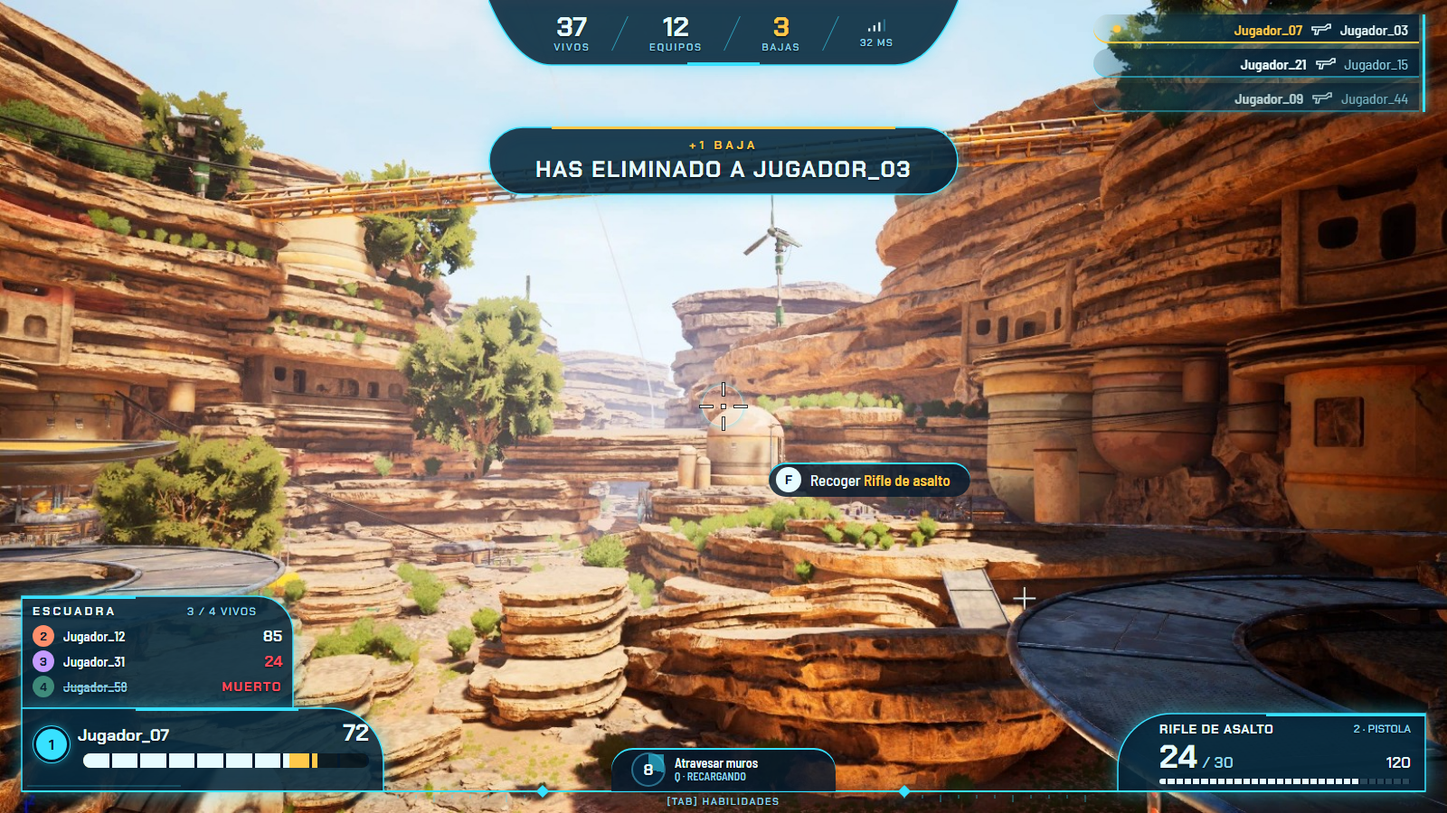
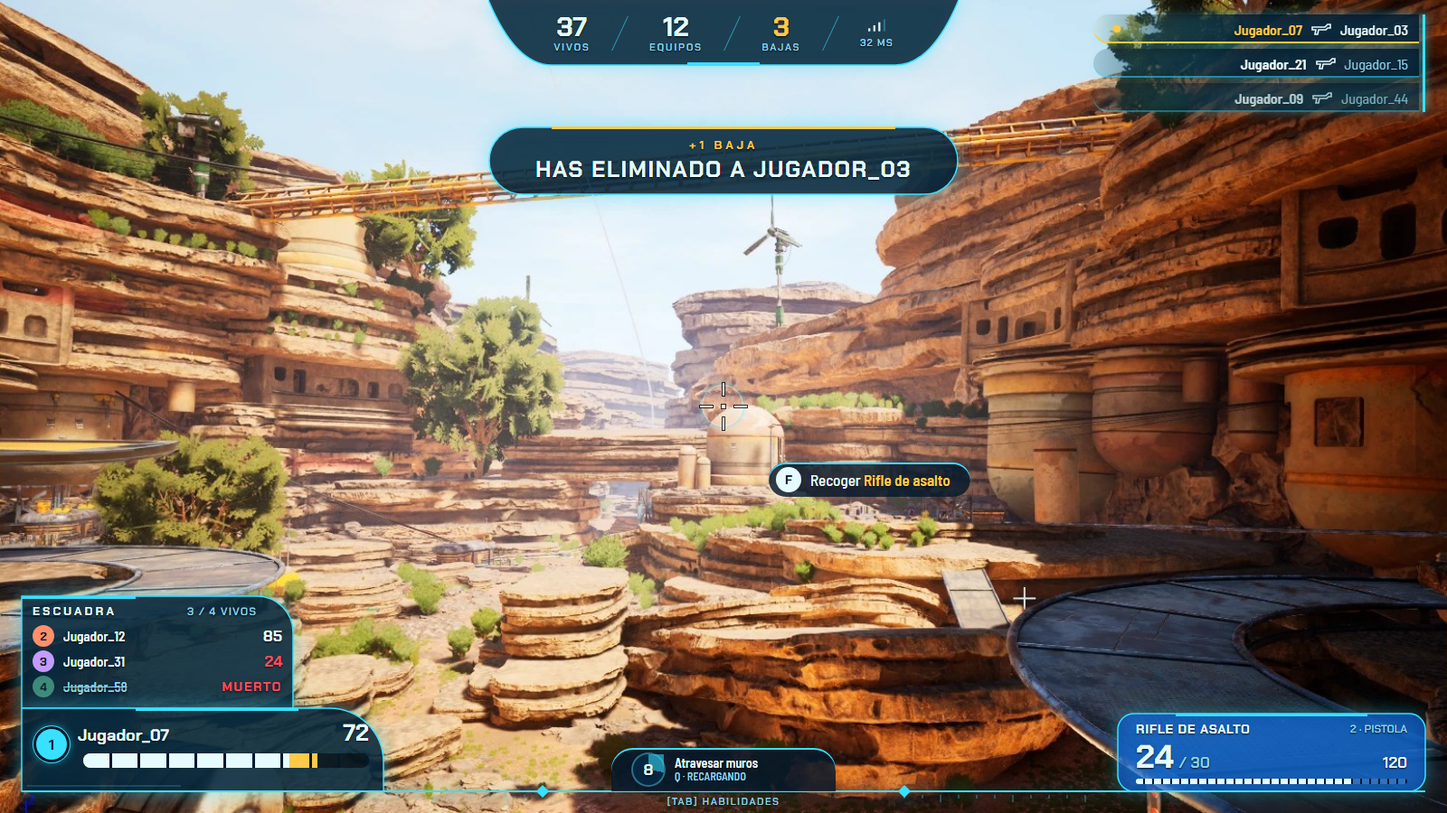
HUD mockup: weapon panel fully rounded with electric-blue fill

Changed region(s): [[0.75, 0.8711, 1.0, 0.9956]]

diff --git a/Doc/UI/Mockups/HUD_Escenario1.dc.html b/Doc/UI/Mockups/HUD_Escenario1.dc.html
@@ -83,7 +83,7 @@ a{color:#38E1FF}a:hover{color:#A6F3FF}
 <sc-if value="{{teamMode}}" hint-placeholder-val="{{ true }}">
 <svg width="1600" height="900" viewBox="0 0 1600 900" aria-hidden="true" style="position: absolute; left: 0; top: 0; filter: drop-shadow(0 0 10px {{glow}})"><path d="M24 660 H284 A40 40 0 0 1 324 700 V784 H24 Z" fill="{{panelFill}}" stroke="{{accent}}" stroke-width="1.5"></path><path d="M24 661.5 H150" stroke="{{accent}}" stroke-width="3"></path></svg>
 </sc-if>
-<svg width="1600" height="900" viewBox="0 0 1600 900" aria-hidden="true" style="position: absolute; left: 0; top: 0; filter: drop-shadow(0 0 10px {{glow}})"><path d="M24 784 H364 A60 60 0 0 1 424 844 V876 H24 Z" fill="{{panelFill}}" stroke="{{accent}}" stroke-width="1.5"></path><path d="M150 785.5 H330" stroke="{{accent}}" stroke-width="3"></path><path d="M30 870 H200" stroke="{{accent}}" stroke-width="1" opacity="0.4"></path><path d="M440 880 V884" stroke="{{accent}}" stroke-width="1" opacity="0.6"></path><path d="M460 880 V884" stroke="{{accent}}" stroke-width="1" opacity="0.6"></path><path d="M480 880 V888" stroke="{{accent}}" stroke-width="1" opacity="0.6"></path><path d="M500 880 V884" stroke="{{accent}}" stroke-width="1" opacity="0.6"></path><path d="M520 880 V884" stroke="{{accent}}" stroke-width="1" opacity="0.6"></path><path d="M540 880 V884" stroke="{{accent}}" stroke-width="1" opacity="0.6"></path><path d="M560 880 V888" stroke="{{accent}}" stroke-width="1" opacity="0.6"></path><path d="M580 880 V884" stroke="{{accent}}" stroke-width="1" opacity="0.6"></path><path d="M1000 880 V884" stroke="{{accent}}" stroke-width="1" opacity="0.6"></path><path d="M1020 880 V884" stroke="{{accent}}" stroke-width="1" opacity="0.6"></path><path d="M1040 880 V888" stroke="{{accent}}" stroke-width="1" opacity="0.6"></path><path d="M1060 880 V884" stroke="{{accent}}" stroke-width="1" opacity="0.6"></path><path d="M1080 880 V884" stroke="{{accent}}" stroke-width="1" opacity="0.6"></path><path d="M1100 880 V884" stroke="{{accent}}" stroke-width="1" opacity="0.6"></path><path d="M1120 880 V888" stroke="{{accent}}" stroke-width="1" opacity="0.6"></path><path d="M1140 880 V884" stroke="{{accent}}" stroke-width="1" opacity="0.6"></path><path d="M1160 880 V884" stroke="{{accent}}" stroke-width="1" opacity="0.6"></path><path d="M1180 880 V884" stroke="{{accent}}" stroke-width="1" opacity="0.6"></path><path d="M1200 880 V888" stroke="{{accent}}" stroke-width="1" opacity="0.6"></path><path d="M1236 876 V850 A60 60 0 0 1 1296 790 H1576 V876 Z" fill="{{panelFill}}" stroke="{{accent}}" stroke-width="1.5"></path><path d="M1400 791.5 H1576" stroke="{{accent}}" stroke-width="3"></path><path d="M24 876 H1576" stroke="{{accent}}" stroke-width="2"></path><rect x="595" y="871" width="10" height="10" fill="{{accent}}" transform="rotate(45 600 876)"></rect><rect x="995" y="871" width="10" height="10" fill="{{accent}}" transform="rotate(45 1000 876)"></rect></svg>
+<svg width="1600" height="900" viewBox="0 0 1600 900" aria-hidden="true" style="position: absolute; left: 0; top: 0; filter: drop-shadow(0 0 10px {{glow}})"><path d="M24 784 H364 A60 60 0 0 1 424 844 V876 H24 Z" fill="{{panelFill}}" stroke="{{accent}}" stroke-width="1.5"></path><path d="M150 785.5 H330" stroke="{{accent}}" stroke-width="3"></path><path d="M30 870 H200" stroke="{{accent}}" stroke-width="1" opacity="0.4"></path><path d="M440 880 V884" stroke="{{accent}}" stroke-width="1" opacity="0.6"></path><path d="M460 880 V884" stroke="{{accent}}" stroke-width="1" opacity="0.6"></path><path d="M480 880 V888" stroke="{{accent}}" stroke-width="1" opacity="0.6"></path><path d="M500 880 V884" stroke="{{accent}}" stroke-width="1" opacity="0.6"></path><path d="M520 880 V884" stroke="{{accent}}" stroke-width="1" opacity="0.6"></path><path d="M540 880 V884" stroke="{{accent}}" stroke-width="1" opacity="0.6"></path><path d="M560 880 V888" stroke="{{accent}}" stroke-width="1" opacity="0.6"></path><path d="M580 880 V884" stroke="{{accent}}" stroke-width="1" opacity="0.6"></path><path d="M1000 880 V884" stroke="{{accent}}" stroke-width="1" opacity="0.6"></path><path d="M1020 880 V884" stroke="{{accent}}" stroke-width="1" opacity="0.6"></path><path d="M1040 880 V888" stroke="{{accent}}" stroke-width="1" opacity="0.6"></path><path d="M1060 880 V884" stroke="{{accent}}" stroke-width="1" opacity="0.6"></path><path d="M1080 880 V884" stroke="{{accent}}" stroke-width="1" opacity="0.6"></path><path d="M1100 880 V884" stroke="{{accent}}" stroke-width="1" opacity="0.6"></path><path d="M1120 880 V888" stroke="{{accent}}" stroke-width="1" opacity="0.6"></path><path d="M1140 880 V884" stroke="{{accent}}" stroke-width="1" opacity="0.6"></path><path d="M1160 880 V884" stroke="{{accent}}" stroke-width="1" opacity="0.6"></path><path d="M1180 880 V884" stroke="{{accent}}" stroke-width="1" opacity="0.6"></path><path d="M1200 880 V888" stroke="{{accent}}" stroke-width="1" opacity="0.6"></path><path d="M1254 790 H1558 A18 18 0 0 1 1576 808 V858 A18 18 0 0 1 1558 876 H1254 A18 18 0 0 1 1236 858 V808 A18 18 0 0 1 1254 790 Z" fill="{{weaponFill}}" stroke="{{accent}}" stroke-width="1.5"></path><path d="M1300 791.5 H1512" stroke="{{accent}}" stroke-width="3"></path><path d="M24 876 H1576" stroke="{{accent}}" stroke-width="2"></path><rect x="595" y="871" width="10" height="10" fill="{{accent}}" transform="rotate(45 600 876)"></rect><rect x="995" y="871" width="10" height="10" fill="{{accent}}" transform="rotate(45 1000 876)"></rect></svg>
 
 <sc-if value="{{teamMode}}" hint-placeholder-val="{{ true }}">
 <div style="position: absolute; left: 36px; top: 668px; width: 276px; display: flex; flex-direction: column; gap: 6px">
@@ -176,7 +176,7 @@ a{color:#38E1FF}a:hover{color:#A6F3FF}
 <div style="position: absolute; left: 0; top: 880px; width: 1600px; text-align: center; font-family: 'Chakra Petch', sans-serif; font-size: 11px; font-weight: 600; letter-spacing: 0.14em; color: #8FD3E8">[TAB] OCULTAR</div>
 </sc-if>
 
-<div style="position: absolute; left: 1282px; top: 798px; width: 278px; display: flex; flex-direction: column; gap: 4px">
+<div style="position: absolute; left: 1256px; top: 798px; width: 300px; display: flex; flex-direction: column; gap: 4px">
 <div style="display: flex; justify-content: space-between; align-items: center; font-family: 'Chakra Petch', sans-serif">
 <span style="font-size: 14px; font-weight: 700; letter-spacing: 0.06em">RIFLE DE ASALTO</span>
 <span style="font-size: 12px; font-weight: 600; color: #8FD3E8">2 · PISTOLA</span>
@@ -215,6 +215,7 @@ class Component extends DCLogic {
       glow: accent + '99',
       edge: accent + '88',
       panelFill: 'rgba(4,24,44,' + panelAlpha + ')',
+      weaponFill: 'rgba(12,90,220,' + Math.min(1, panelAlpha * 0.75) + ')',
       teamMode,
       soloMode: !teamMode,
       skillsPanel,

diff --git a/Doc/UI/Mockups/HUD_Escenario2.dc.html b/Doc/UI/Mockups/HUD_Escenario2.dc.html
@@ -83,7 +83,7 @@ a{color:#38E1FF}a:hover{color:#A6F3FF}
 <sc-if value="{{teamMode}}" hint-placeholder-val="{{ true }}">
 <svg width="1600" height="900" viewBox="0 0 1600 900" aria-hidden="true" style="position: absolute; left: 0; top: 0; filter: drop-shadow(0 0 10px {{glow}})"><path d="M24 660 H284 A40 40 0 0 1 324 700 V784 H24 Z" fill="{{panelFill}}" stroke="{{accent}}" stroke-width="1.5"></path><path d="M24 661.5 H150" stroke="{{accent}}" stroke-width="3"></path></svg>
 </sc-if>
-<svg width="1600" height="900" viewBox="0 0 1600 900" aria-hidden="true" style="position: absolute; left: 0; top: 0; filter: drop-shadow(0 0 10px {{glow}})"><path d="M24 784 H364 A60 60 0 0 1 424 844 V876 H24 Z" fill="{{panelFill}}" stroke="{{accent}}" stroke-width="1.5"></path><path d="M150 785.5 H330" stroke="{{accent}}" stroke-width="3"></path><path d="M30 870 H200" stroke="{{accent}}" stroke-width="1" opacity="0.4"></path><path d="M440 880 V884" stroke="{{accent}}" stroke-width="1" opacity="0.6"></path><path d="M460 880 V884" stroke="{{accent}}" stroke-width="1" opacity="0.6"></path><path d="M480 880 V888" stroke="{{accent}}" stroke-width="1" opacity="0.6"></path><path d="M500 880 V884" stroke="{{accent}}" stroke-width="1" opacity="0.6"></path><path d="M520 880 V884" stroke="{{accent}}" stroke-width="1" opacity="0.6"></path><path d="M540 880 V884" stroke="{{accent}}" stroke-width="1" opacity="0.6"></path><path d="M560 880 V888" stroke="{{accent}}" stroke-width="1" opacity="0.6"></path><path d="M580 880 V884" stroke="{{accent}}" stroke-width="1" opacity="0.6"></path><path d="M1000 880 V884" stroke="{{accent}}" stroke-width="1" opacity="0.6"></path><path d="M1020 880 V884" stroke="{{accent}}" stroke-width="1" opacity="0.6"></path><path d="M1040 880 V888" stroke="{{accent}}" stroke-width="1" opacity="0.6"></path><path d="M1060 880 V884" stroke="{{accent}}" stroke-width="1" opacity="0.6"></path><path d="M1080 880 V884" stroke="{{accent}}" stroke-width="1" opacity="0.6"></path><path d="M1100 880 V884" stroke="{{accent}}" stroke-width="1" opacity="0.6"></path><path d="M1120 880 V888" stroke="{{accent}}" stroke-width="1" opacity="0.6"></path><path d="M1140 880 V884" stroke="{{accent}}" stroke-width="1" opacity="0.6"></path><path d="M1160 880 V884" stroke="{{accent}}" stroke-width="1" opacity="0.6"></path><path d="M1180 880 V884" stroke="{{accent}}" stroke-width="1" opacity="0.6"></path><path d="M1200 880 V888" stroke="{{accent}}" stroke-width="1" opacity="0.6"></path><path d="M1236 876 V850 A60 60 0 0 1 1296 790 H1576 V876 Z" fill="{{panelFill}}" stroke="{{accent}}" stroke-width="1.5"></path><path d="M1400 791.5 H1576" stroke="{{accent}}" stroke-width="3"></path><path d="M24 876 H1576" stroke="{{accent}}" stroke-width="2"></path><rect x="595" y="871" width="10" height="10" fill="{{accent}}" transform="rotate(45 600 876)"></rect><rect x="995" y="871" width="10" height="10" fill="{{accent}}" transform="rotate(45 1000 876)"></rect></svg>
+<svg width="1600" height="900" viewBox="0 0 1600 900" aria-hidden="true" style="position: absolute; left: 0; top: 0; filter: drop-shadow(0 0 10px {{glow}})"><path d="M24 784 H364 A60 60 0 0 1 424 844 V876 H24 Z" fill="{{panelFill}}" stroke="{{accent}}" stroke-width="1.5"></path><path d="M150 785.5 H330" stroke="{{accent}}" stroke-width="3"></path><path d="M30 870 H200" stroke="{{accent}}" stroke-width="1" opacity="0.4"></path><path d="M440 880 V884" stroke="{{accent}}" stroke-width="1" opacity="0.6"></path><path d="M460 880 V884" stroke="{{accent}}" stroke-width="1" opacity="0.6"></path><path d="M480 880 V888" stroke="{{accent}}" stroke-width="1" opacity="0.6"></path><path d="M500 880 V884" stroke="{{accent}}" stroke-width="1" opacity="0.6"></path><path d="M520 880 V884" stroke="{{accent}}" stroke-width="1" opacity="0.6"></path><path d="M540 880 V884" stroke="{{accent}}" stroke-width="1" opacity="0.6"></path><path d="M560 880 V888" stroke="{{accent}}" stroke-width="1" opacity="0.6"></path><path d="M580 880 V884" stroke="{{accent}}" stroke-width="1" opacity="0.6"></path><path d="M1000 880 V884" stroke="{{accent}}" stroke-width="1" opacity="0.6"></path><path d="M1020 880 V884" stroke="{{accent}}" stroke-width="1" opacity="0.6"></path><path d="M1040 880 V888" stroke="{{accent}}" stroke-width="1" opacity="0.6"></path><path d="M1060 880 V884" stroke="{{accent}}" stroke-width="1" opacity="0.6"></path><path d="M1080 880 V884" stroke="{{accent}}" stroke-width="1" opacity="0.6"></path><path d="M1100 880 V884" stroke="{{accent}}" stroke-width="1" opacity="0.6"></path><path d="M1120 880 V888" stroke="{{accent}}" stroke-width="1" opacity="0.6"></path><path d="M1140 880 V884" stroke="{{accent}}" stroke-width="1" opacity="0.6"></path><path d="M1160 880 V884" stroke="{{accent}}" stroke-width="1" opacity="0.6"></path><path d="M1180 880 V884" stroke="{{accent}}" stroke-width="1" opacity="0.6"></path><path d="M1200 880 V888" stroke="{{accent}}" stroke-width="1" opacity="0.6"></path><path d="M1254 790 H1558 A18 18 0 0 1 1576 808 V858 A18 18 0 0 1 1558 876 H1254 A18 18 0 0 1 1236 858 V808 A18 18 0 0 1 1254 790 Z" fill="{{weaponFill}}" stroke="{{accent}}" stroke-width="1.5"></path><path d="M1300 791.5 H1512" stroke="{{accent}}" stroke-width="3"></path><path d="M24 876 H1576" stroke="{{accent}}" stroke-width="2"></path><rect x="595" y="871" width="10" height="10" fill="{{accent}}" transform="rotate(45 600 876)"></rect><rect x="995" y="871" width="10" height="10" fill="{{accent}}" transform="rotate(45 1000 876)"></rect></svg>
 
 <sc-if value="{{teamMode}}" hint-placeholder-val="{{ true }}">
 <div style="position: absolute; left: 36px; top: 668px; width: 276px; display: flex; flex-direction: column; gap: 6px">
@@ -176,7 +176,7 @@ a{color:#38E1FF}a:hover{color:#A6F3FF}
 <div style="position: absolute; left: 0; top: 880px; width: 1600px; text-align: center; font-family: 'Chakra Petch', sans-serif; font-size: 11px; font-weight: 600; letter-spacing: 0.14em; color: #8FD3E8">[TAB] OCULTAR</div>
 </sc-if>
 
-<div style="position: absolute; left: 1282px; top: 798px; width: 278px; display: flex; flex-direction: column; gap: 4px">
+<div style="position: absolute; left: 1256px; top: 798px; width: 300px; display: flex; flex-direction: column; gap: 4px">
 <div style="display: flex; justify-content: space-between; align-items: center; font-family: 'Chakra Petch', sans-serif">
 <span style="font-size: 14px; font-weight: 700; letter-spacing: 0.06em">RIFLE DE ASALTO</span>
 <span style="font-size: 12px; font-weight: 600; color: #8FD3E8">2 · PISTOLA</span>
@@ -215,6 +215,7 @@ class Component extends DCLogic {
       glow: accent + '99',
       edge: accent + '88',
       panelFill: 'rgba(4,24,44,' + panelAlpha + ')',
+      weaponFill: 'rgba(12,90,220,' + Math.min(1, panelAlpha * 0.75) + ')',
       teamMode,
       soloMode: !teamMode,
       skillsPanel,

diff --git a/Doc/UI/Mockups/HUD_Escenario3.dc.html b/Doc/UI/Mockups/HUD_Escenario3.dc.html
@@ -83,7 +83,7 @@ a{color:#38E1FF}a:hover{color:#A6F3FF}
 <sc-if value="{{teamMode}}" hint-placeholder-val="{{ true }}">
 <svg width="1600" height="900" viewBox="0 0 1600 900" aria-hidden="true" style="position: absolute; left: 0; top: 0; filter: drop-shadow(0 0 10px {{glow}})"><path d="M24 660 H284 A40 40 0 0 1 324 700 V784 H24 Z" fill="{{panelFill}}" stroke="{{accent}}" stroke-width="1.5"></path><path d="M24 661.5 H150" stroke="{{accent}}" stroke-width="3"></path></svg>
 </sc-if>
-<svg width="1600" height="900" viewBox="0 0 1600 900" aria-hidden="true" style="position: absolute; left: 0; top: 0; filter: drop-shadow(0 0 10px {{glow}})"><path d="M24 784 H364 A60 60 0 0 1 424 844 V876 H24 Z" fill="{{panelFill}}" stroke="{{accent}}" stroke-width="1.5"></path><path d="M150 785.5 H330" stroke="{{accent}}" stroke-width="3"></path><path d="M30 870 H200" stroke="{{accent}}" stroke-width="1" opacity="0.4"></path><path d="M440 880 V884" stroke="{{accent}}" stroke-width="1" opacity="0.6"></path><path d="M460 880 V884" stroke="{{accent}}" stroke-width="1" opacity="0.6"></path><path d="M480 880 V888" stroke="{{accent}}" stroke-width="1" opacity="0.6"></path><path d="M500 880 V884" stroke="{{accent}}" stroke-width="1" opacity="0.6"></path><path d="M520 880 V884" stroke="{{accent}}" stroke-width="1" opacity="0.6"></path><path d="M540 880 V884" stroke="{{accent}}" stroke-width="1" opacity="0.6"></path><path d="M560 880 V888" stroke="{{accent}}" stroke-width="1" opacity="0.6"></path><path d="M580 880 V884" stroke="{{accent}}" stroke-width="1" opacity="0.6"></path><path d="M1000 880 V884" stroke="{{accent}}" stroke-width="1" opacity="0.6"></path><path d="M1020 880 V884" stroke="{{accent}}" stroke-width="1" opacity="0.6"></path><path d="M1040 880 V888" stroke="{{accent}}" stroke-width="1" opacity="0.6"></path><path d="M1060 880 V884" stroke="{{accent}}" stroke-width="1" opacity="0.6"></path><path d="M1080 880 V884" stroke="{{accent}}" stroke-width="1" opacity="0.6"></path><path d="M1100 880 V884" stroke="{{accent}}" stroke-width="1" opacity="0.6"></path><path d="M1120 880 V888" stroke="{{accent}}" stroke-width="1" opacity="0.6"></path><path d="M1140 880 V884" stroke="{{accent}}" stroke-width="1" opacity="0.6"></path><path d="M1160 880 V884" stroke="{{accent}}" stroke-width="1" opacity="0.6"></path><path d="M1180 880 V884" stroke="{{accent}}" stroke-width="1" opacity="0.6"></path><path d="M1200 880 V888" stroke="{{accent}}" stroke-width="1" opacity="0.6"></path><path d="M1236 876 V850 A60 60 0 0 1 1296 790 H1576 V876 Z" fill="{{panelFill}}" stroke="{{accent}}" stroke-width="1.5"></path><path d="M1400 791.5 H1576" stroke="{{accent}}" stroke-width="3"></path><path d="M24 876 H1576" stroke="{{accent}}" stroke-width="2"></path><rect x="595" y="871" width="10" height="10" fill="{{accent}}" transform="rotate(45 600 876)"></rect><rect x="995" y="871" width="10" height="10" fill="{{accent}}" transform="rotate(45 1000 876)"></rect></svg>
+<svg width="1600" height="900" viewBox="0 0 1600 900" aria-hidden="true" style="position: absolute; left: 0; top: 0; filter: drop-shadow(0 0 10px {{glow}})"><path d="M24 784 H364 A60 60 0 0 1 424 844 V876 H24 Z" fill="{{panelFill}}" stroke="{{accent}}" stroke-width="1.5"></path><path d="M150 785.5 H330" stroke="{{accent}}" stroke-width="3"></path><path d="M30 870 H200" stroke="{{accent}}" stroke-width="1" opacity="0.4"></path><path d="M440 880 V884" stroke="{{accent}}" stroke-width="1" opacity="0.6"></path><path d="M460 880 V884" stroke="{{accent}}" stroke-width="1" opacity="0.6"></path><path d="M480 880 V888" stroke="{{accent}}" stroke-width="1" opacity="0.6"></path><path d="M500 880 V884" stroke="{{accent}}" stroke-width="1" opacity="0.6"></path><path d="M520 880 V884" stroke="{{accent}}" stroke-width="1" opacity="0.6"></path><path d="M540 880 V884" stroke="{{accent}}" stroke-width="1" opacity="0.6"></path><path d="M560 880 V888" stroke="{{accent}}" stroke-width="1" opacity="0.6"></path><path d="M580 880 V884" stroke="{{accent}}" stroke-width="1" opacity="0.6"></path><path d="M1000 880 V884" stroke="{{accent}}" stroke-width="1" opacity="0.6"></path><path d="M1020 880 V884" stroke="{{accent}}" stroke-width="1" opacity="0.6"></path><path d="M1040 880 V888" stroke="{{accent}}" stroke-width="1" opacity="0.6"></path><path d="M1060 880 V884" stroke="{{accent}}" stroke-width="1" opacity="0.6"></path><path d="M1080 880 V884" stroke="{{accent}}" stroke-width="1" opacity="0.6"></path><path d="M1100 880 V884" stroke="{{accent}}" stroke-width="1" opacity="0.6"></path><path d="M1120 880 V888" stroke="{{accent}}" stroke-width="1" opacity="0.6"></path><path d="M1140 880 V884" stroke="{{accent}}" stroke-width="1" opacity="0.6"></path><path d="M1160 880 V884" stroke="{{accent}}" stroke-width="1" opacity="0.6"></path><path d="M1180 880 V884" stroke="{{accent}}" stroke-width="1" opacity="0.6"></path><path d="M1200 880 V888" stroke="{{accent}}" stroke-width="1" opacity="0.6"></path><path d="M1254 790 H1558 A18 18 0 0 1 1576 808 V858 A18 18 0 0 1 1558 876 H1254 A18 18 0 0 1 1236 858 V808 A18 18 0 0 1 1254 790 Z" fill="{{weaponFill}}" stroke="{{accent}}" stroke-width="1.5"></path><path d="M1300 791.5 H1512" stroke="{{accent}}" stroke-width="3"></path><path d="M24 876 H1576" stroke="{{accent}}" stroke-width="2"></path><rect x="595" y="871" width="10" height="10" fill="{{accent}}" transform="rotate(45 600 876)"></rect><rect x="995" y="871" width="10" height="10" fill="{{accent}}" transform="rotate(45 1000 876)"></rect></svg>
 
 <sc-if value="{{teamMode}}" hint-placeholder-val="{{ true }}">
 <div style="position: absolute; left: 36px; top: 668px; width: 276px; display: flex; flex-direction: column; gap: 6px">
@@ -176,7 +176,7 @@ a{color:#38E1FF}a:hover{color:#A6F3FF}
 <div style="position: absolute; left: 0; top: 880px; width: 1600px; text-align: center; font-family: 'Chakra Petch', sans-serif; font-size: 11px; font-weight: 600; letter-spacing: 0.14em; color: #8FD3E8">[TAB] OCULTAR</div>
 </sc-if>
 
-<div style="position: absolute; left: 1282px; top: 798px; width: 278px; display: flex; flex-direction: column; gap: 4px">
+<div style="position: absolute; left: 1256px; top: 798px; width: 300px; display: flex; flex-direction: column; gap: 4px">
 <div style="display: flex; justify-content: space-between; align-items: center; font-family: 'Chakra Petch', sans-serif">
 <span style="font-size: 14px; font-weight: 700; letter-spacing: 0.06em">RIFLE DE ASALTO</span>
 <span style="font-size: 12px; font-weight: 600; color: #8FD3E8">2 · PISTOLA</span>
@@ -215,6 +215,7 @@ class Component extends DCLogic {
       glow: accent + '99',
       edge: accent + '88',
       panelFill: 'rgba(4,24,44,' + panelAlpha + ')',
+      weaponFill: 'rgba(12,90,220,' + Math.min(1, panelAlpha * 0.75) + ')',
       teamMode,
       soloMode: !teamMode,
       skillsPanel,

diff --git a/Doc/UI/Mockups/HUD_Escenario4.dc.html b/Doc/UI/Mockups/HUD_Escenario4.dc.html
@@ -83,7 +83,7 @@ a{color:#38E1FF}a:hover{color:#A6F3FF}
 <sc-if value="{{teamMode}}" hint-placeholder-val="{{ true }}">
 <svg width="1600" height="900" viewBox="0 0 1600 900" aria-hidden="true" style="position: absolute; left: 0; top: 0; filter: drop-shadow(0 0 10px {{glow}})"><path d="M24 660 H284 A40 40 0 0 1 324 700 V784 H24 Z" fill="{{panelFill}}" stroke="{{accent}}" stroke-width="1.5"></path><path d="M24 661.5 H150" stroke="{{accent}}" stroke-width="3"></path></svg>
 </sc-if>
-<svg width="1600" height="900" viewBox="0 0 1600 900" aria-hidden="true" style="position: absolute; left: 0; top: 0; filter: drop-shadow(0 0 10px {{glow}})"><path d="M24 784 H364 A60 60 0 0 1 424 844 V876 H24 Z" fill="{{panelFill}}" stroke="{{accent}}" stroke-width="1.5"></path><path d="M150 785.5 H330" stroke="{{accent}}" stroke-width="3"></path><path d="M30 870 H200" stroke="{{accent}}" stroke-width="1" opacity="0.4"></path><path d="M440 880 V884" stroke="{{accent}}" stroke-width="1" opacity="0.6"></path><path d="M460 880 V884" stroke="{{accent}}" stroke-width="1" opacity="0.6"></path><path d="M480 880 V888" stroke="{{accent}}" stroke-width="1" opacity="0.6"></path><path d="M500 880 V884" stroke="{{accent}}" stroke-width="1" opacity="0.6"></path><path d="M520 880 V884" stroke="{{accent}}" stroke-width="1" opacity="0.6"></path><path d="M540 880 V884" stroke="{{accent}}" stroke-width="1" opacity="0.6"></path><path d="M560 880 V888" stroke="{{accent}}" stroke-width="1" opacity="0.6"></path><path d="M580 880 V884" stroke="{{accent}}" stroke-width="1" opacity="0.6"></path><path d="M1000 880 V884" stroke="{{accent}}" stroke-width="1" opacity="0.6"></path><path d="M1020 880 V884" stroke="{{accent}}" stroke-width="1" opacity="0.6"></path><path d="M1040 880 V888" stroke="{{accent}}" stroke-width="1" opacity="0.6"></path><path d="M1060 880 V884" stroke="{{accent}}" stroke-width="1" opacity="0.6"></path><path d="M1080 880 V884" stroke="{{accent}}" stroke-width="1" opacity="0.6"></path><path d="M1100 880 V884" stroke="{{accent}}" stroke-width="1" opacity="0.6"></path><path d="M1120 880 V888" stroke="{{accent}}" stroke-width="1" opacity="0.6"></path><path d="M1140 880 V884" stroke="{{accent}}" stroke-width="1" opacity="0.6"></path><path d="M1160 880 V884" stroke="{{accent}}" stroke-width="1" opacity="0.6"></path><path d="M1180 880 V884" stroke="{{accent}}" stroke-width="1" opacity="0.6"></path><path d="M1200 880 V888" stroke="{{accent}}" stroke-width="1" opacity="0.6"></path><path d="M1236 876 V850 A60 60 0 0 1 1296 790 H1576 V876 Z" fill="{{panelFill}}" stroke="{{accent}}" stroke-width="1.5"></path><path d="M1400 791.5 H1576" stroke="{{accent}}" stroke-width="3"></path><path d="M24 876 H1576" stroke="{{accent}}" stroke-width="2"></path><rect x="595" y="871" width="10" height="10" fill="{{accent}}" transform="rotate(45 600 876)"></rect><rect x="995" y="871" width="10" height="10" fill="{{accent}}" transform="rotate(45 1000 876)"></rect></svg>
+<svg width="1600" height="900" viewBox="0 0 1600 900" aria-hidden="true" style="position: absolute; left: 0; top: 0; filter: drop-shadow(0 0 10px {{glow}})"><path d="M24 784 H364 A60 60 0 0 1 424 844 V876 H24 Z" fill="{{panelFill}}" stroke="{{accent}}" stroke-width="1.5"></path><path d="M150 785.5 H330" stroke="{{accent}}" stroke-width="3"></path><path d="M30 870 H200" stroke="{{accent}}" stroke-width="1" opacity="0.4"></path><path d="M440 880 V884" stroke="{{accent}}" stroke-width="1" opacity="0.6"></path><path d="M460 880 V884" stroke="{{accent}}" stroke-width="1" opacity="0.6"></path><path d="M480 880 V888" stroke="{{accent}}" stroke-width="1" opacity="0.6"></path><path d="M500 880 V884" stroke="{{accent}}" stroke-width="1" opacity="0.6"></path><path d="M520 880 V884" stroke="{{accent}}" stroke-width="1" opacity="0.6"></path><path d="M540 880 V884" stroke="{{accent}}" stroke-width="1" opacity="0.6"></path><path d="M560 880 V888" stroke="{{accent}}" stroke-width="1" opacity="0.6"></path><path d="M580 880 V884" stroke="{{accent}}" stroke-width="1" opacity="0.6"></path><path d="M1000 880 V884" stroke="{{accent}}" stroke-width="1" opacity="0.6"></path><path d="M1020 880 V884" stroke="{{accent}}" stroke-width="1" opacity="0.6"></path><path d="M1040 880 V888" stroke="{{accent}}" stroke-width="1" opacity="0.6"></path><path d="M1060 880 V884" stroke="{{accent}}" stroke-width="1" opacity="0.6"></path><path d="M1080 880 V884" stroke="{{accent}}" stroke-width="1" opacity="0.6"></path><path d="M1100 880 V884" stroke="{{accent}}" stroke-width="1" opacity="0.6"></path><path d="M1120 880 V888" stroke="{{accent}}" stroke-width="1" opacity="0.6"></path><path d="M1140 880 V884" stroke="{{accent}}" stroke-width="1" opacity="0.6"></path><path d="M1160 880 V884" stroke="{{accent}}" stroke-width="1" opacity="0.6"></path><path d="M1180 880 V884" stroke="{{accent}}" stroke-width="1" opacity="0.6"></path><path d="M1200 880 V888" stroke="{{accent}}" stroke-width="1" opacity="0.6"></path><path d="M1254 790 H1558 A18 18 0 0 1 1576 808 V858 A18 18 0 0 1 1558 876 H1254 A18 18 0 0 1 1236 858 V808 A18 18 0 0 1 1254 790 Z" fill="{{weaponFill}}" stroke="{{accent}}" stroke-width="1.5"></path><path d="M1300 791.5 H1512" stroke="{{accent}}" stroke-width="3"></path><path d="M24 876 H1576" stroke="{{accent}}" stroke-width="2"></path><rect x="595" y="871" width="10" height="10" fill="{{accent}}" transform="rotate(45 600 876)"></rect><rect x="995" y="871" width="10" height="10" fill="{{accent}}" transform="rotate(45 1000 876)"></rect></svg>
 
 <sc-if value="{{teamMode}}" hint-placeholder-val="{{ true }}">
 <div style="position: absolute; left: 36px; top: 668px; width: 276px; display: flex; flex-direction: column; gap: 6px">
@@ -176,7 +176,7 @@ a{color:#38E1FF}a:hover{color:#A6F3FF}
 <div style="position: absolute; left: 0; top: 880px; width: 1600px; text-align: center; font-family: 'Chakra Petch', sans-serif; font-size: 11px; font-weight: 600; letter-spacing: 0.14em; color: #8FD3E8">[TAB] OCULTAR</div>
 </sc-if>
 
-<div style="position: absolute; left: 1282px; top: 798px; width: 278px; display: flex; flex-direction: column; gap: 4px">
+<div style="position: absolute; left: 1256px; top: 798px; width: 300px; display: flex; flex-direction: column; gap: 4px">
 <div style="display: flex; justify-content: space-between; align-items: center; font-family: 'Chakra Petch', sans-serif">
 <span style="font-size: 14px; font-weight: 700; letter-spacing: 0.06em">RIFLE DE ASALTO</span>
 <span style="font-size: 12px; font-weight: 600; color: #8FD3E8">2 · PISTOLA</span>
@@ -215,6 +215,7 @@ class Component extends DCLogic {
       glow: accent + '99',
       edge: accent + '88',
       panelFill: 'rgba(4,24,44,' + panelAlpha + ')',
+      weaponFill: 'rgba(12,90,220,' + Math.min(1, panelAlpha * 0.75) + ')',
       teamMode,
       soloMode: !teamMode,
       skillsPanel,

diff --git a/Doc/UI/Mockups/HUD_Escenario5.dc.html b/Doc/UI/Mockups/HUD_Escenario5.dc.html
@@ -83,7 +83,7 @@ a{color:#38E1FF}a:hover{color:#A6F3FF}
 <sc-if value="{{teamMode}}" hint-placeholder-val="{{ true }}">
 <svg width="1600" height="900" viewBox="0 0 1600 900" aria-hidden="true" style="position: absolute; left: 0; top: 0; filter: drop-shadow(0 0 10px {{glow}})"><path d="M24 660 H284 A40 40 0 0 1 324 700 V784 H24 Z" fill="{{panelFill}}" stroke="{{accent}}" stroke-width="1.5"></path><path d="M24 661.5 H150" stroke="{{accent}}" stroke-width="3"></path></svg>
 </sc-if>
-<svg width="1600" height="900" viewBox="0 0 1600 900" aria-hidden="true" style="position: absolute; left: 0; top: 0; filter: drop-shadow(0 0 10px {{glow}})"><path d="M24 784 H364 A60 60 0 0 1 424 844 V876 H24 Z" fill="{{panelFill}}" stroke="{{accent}}" stroke-width="1.5"></path><path d="M150 785.5 H330" stroke="{{accent}}" stroke-width="3"></path><path d="M30 870 H200" stroke="{{accent}}" stroke-width="1" opacity="0.4"></path><path d="M440 880 V884" stroke="{{accent}}" stroke-width="1" opacity="0.6"></path><path d="M460 880 V884" stroke="{{accent}}" stroke-width="1" opacity="0.6"></path><path d="M480 880 V888" stroke="{{accent}}" stroke-width="1" opacity="0.6"></path><path d="M500 880 V884" stroke="{{accent}}" stroke-width="1" opacity="0.6"></path><path d="M520 880 V884" stroke="{{accent}}" stroke-width="1" opacity="0.6"></path><path d="M540 880 V884" stroke="{{accent}}" stroke-width="1" opacity="0.6"></path><path d="M560 880 V888" stroke="{{accent}}" stroke-width="1" opacity="0.6"></path><path d="M580 880 V884" stroke="{{accent}}" stroke-width="1" opacity="0.6"></path><path d="M1000 880 V884" stroke="{{accent}}" stroke-width="1" opacity="0.6"></path><path d="M1020 880 V884" stroke="{{accent}}" stroke-width="1" opacity="0.6"></path><path d="M1040 880 V888" stroke="{{accent}}" stroke-width="1" opacity="0.6"></path><path d="M1060 880 V884" stroke="{{accent}}" stroke-width="1" opacity="0.6"></path><path d="M1080 880 V884" stroke="{{accent}}" stroke-width="1" opacity="0.6"></path><path d="M1100 880 V884" stroke="{{accent}}" stroke-width="1" opacity="0.6"></path><path d="M1120 880 V888" stroke="{{accent}}" stroke-width="1" opacity="0.6"></path><path d="M1140 880 V884" stroke="{{accent}}" stroke-width="1" opacity="0.6"></path><path d="M1160 880 V884" stroke="{{accent}}" stroke-width="1" opacity="0.6"></path><path d="M1180 880 V884" stroke="{{accent}}" stroke-width="1" opacity="0.6"></path><path d="M1200 880 V888" stroke="{{accent}}" stroke-width="1" opacity="0.6"></path><path d="M1236 876 V850 A60 60 0 0 1 1296 790 H1576 V876 Z" fill="{{panelFill}}" stroke="{{accent}}" stroke-width="1.5"></path><path d="M1400 791.5 H1576" stroke="{{accent}}" stroke-width="3"></path><path d="M24 876 H1576" stroke="{{accent}}" stroke-width="2"></path><rect x="595" y="871" width="10" height="10" fill="{{accent}}" transform="rotate(45 600 876)"></rect><rect x="995" y="871" width="10" height="10" fill="{{accent}}" transform="rotate(45 1000 876)"></rect></svg>
+<svg width="1600" height="900" viewBox="0 0 1600 900" aria-hidden="true" style="position: absolute; left: 0; top: 0; filter: drop-shadow(0 0 10px {{glow}})"><path d="M24 784 H364 A60 60 0 0 1 424 844 V876 H24 Z" fill="{{panelFill}}" stroke="{{accent}}" stroke-width="1.5"></path><path d="M150 785.5 H330" stroke="{{accent}}" stroke-width="3"></path><path d="M30 870 H200" stroke="{{accent}}" stroke-width="1" opacity="0.4"></path><path d="M440 880 V884" stroke="{{accent}}" stroke-width="1" opacity="0.6"></path><path d="M460 880 V884" stroke="{{accent}}" stroke-width="1" opacity="0.6"></path><path d="M480 880 V888" stroke="{{accent}}" stroke-width="1" opacity="0.6"></path><path d="M500 880 V884" stroke="{{accent}}" stroke-width="1" opacity="0.6"></path><path d="M520 880 V884" stroke="{{accent}}" stroke-width="1" opacity="0.6"></path><path d="M540 880 V884" stroke="{{accent}}" stroke-width="1" opacity="0.6"></path><path d="M560 880 V888" stroke="{{accent}}" stroke-width="1" opacity="0.6"></path><path d="M580 880 V884" stroke="{{accent}}" stroke-width="1" opacity="0.6"></path><path d="M1000 880 V884" stroke="{{accent}}" stroke-width="1" opacity="0.6"></path><path d="M1020 880 V884" stroke="{{accent}}" stroke-width="1" opacity="0.6"></path><path d="M1040 880 V888" stroke="{{accent}}" stroke-width="1" opacity="0.6"></path><path d="M1060 880 V884" stroke="{{accent}}" stroke-width="1" opacity="0.6"></path><path d="M1080 880 V884" stroke="{{accent}}" stroke-width="1" opacity="0.6"></path><path d="M1100 880 V884" stroke="{{accent}}" stroke-width="1" opacity="0.6"></path><path d="M1120 880 V888" stroke="{{accent}}" stroke-width="1" opacity="0.6"></path><path d="M1140 880 V884" stroke="{{accent}}" stroke-width="1" opacity="0.6"></path><path d="M1160 880 V884" stroke="{{accent}}" stroke-width="1" opacity="0.6"></path><path d="M1180 880 V884" stroke="{{accent}}" stroke-width="1" opacity="0.6"></path><path d="M1200 880 V888" stroke="{{accent}}" stroke-width="1" opacity="0.6"></path><path d="M1254 790 H1558 A18 18 0 0 1 1576 808 V858 A18 18 0 0 1 1558 876 H1254 A18 18 0 0 1 1236 858 V808 A18 18 0 0 1 1254 790 Z" fill="{{weaponFill}}" stroke="{{accent}}" stroke-width="1.5"></path><path d="M1300 791.5 H1512" stroke="{{accent}}" stroke-width="3"></path><path d="M24 876 H1576" stroke="{{accent}}" stroke-width="2"></path><rect x="595" y="871" width="10" height="10" fill="{{accent}}" transform="rotate(45 600 876)"></rect><rect x="995" y="871" width="10" height="10" fill="{{accent}}" transform="rotate(45 1000 876)"></rect></svg>
 
 <sc-if value="{{teamMode}}" hint-placeholder-val="{{ true }}">
 <div style="position: absolute; left: 36px; top: 668px; width: 276px; display: flex; flex-direction: column; gap: 6px">
@@ -176,7 +176,7 @@ a{color:#38E1FF}a:hover{color:#A6F3FF}
 <div style="position: absolute; left: 0; top: 880px; width: 1600px; text-align: center; font-family: 'Chakra Petch', sans-serif; font-size: 11px; font-weight: 600; letter-spacing: 0.14em; color: #8FD3E8">[TAB] OCULTAR</div>
 </sc-if>
 
-<div style="position: absolute; left: 1282px; top: 798px; width: 278px; display: flex; flex-direction: column; gap: 4px">
+<div style="position: absolute; left: 1256px; top: 798px; width: 300px; display: flex; flex-direction: column; gap: 4px">
 <div style="display: flex; justify-content: space-between; align-items: center; font-family: 'Chakra Petch', sans-serif">
 <span style="font-size: 14px; font-weight: 700; letter-spacing: 0.06em">RIFLE DE ASALTO</span>
 <span style="font-size: 12px; font-weight: 600; color: #8FD3E8">2 · PISTOLA</span>
@@ -215,6 +215,7 @@ class Component extends DCLogic {
       glow: accent + '99',
       edge: accent + '88',
       panelFill: 'rgba(4,24,44,' + panelAlpha + ')',
+      weaponFill: 'rgba(12,90,220,' + Math.min(1, panelAlpha * 0.75) + ')',
       teamMode,
       soloMode: !teamMode,
       skillsPanel,

diff --git a/Doc/UI/Mockups/Main.dc.html b/Doc/UI/Mockups/Main.dc.html
@@ -88,7 +88,7 @@ a{color:#38E1FF}a:hover{color:#A6F3FF}
 <sc-if value="{{teamMode}}" hint-placeholder-val="{{ true }}">
 <svg width="1600" height="900" viewBox="0 0 1600 900" aria-hidden="true" style="position: absolute; left: 0; top: 0; filter: drop-shadow(0 0 10px {{glow}})"><path d="M24 660 H284 A40 40 0 0 1 324 700 V784 H24 Z" fill="{{panelFill}}" stroke="{{accent}}" stroke-width="1.5"></path><path d="M24 661.5 H150" stroke="{{accent}}" stroke-width="3"></path></svg>
 </sc-if>
-<svg width="1600" height="900" viewBox="0 0 1600 900" aria-hidden="true" style="position: absolute; left: 0; top: 0; filter: drop-shadow(0 0 10px {{glow}})"><path d="M24 784 H364 A60 60 0 0 1 424 844 V876 H24 Z" fill="{{panelFill}}" stroke="{{accent}}" stroke-width="1.5"></path><path d="M150 785.5 H330" stroke="{{accent}}" stroke-width="3"></path><path d="M30 870 H200" stroke="{{accent}}" stroke-width="1" opacity="0.4"></path><path d="M440 880 V884" stroke="{{accent}}" stroke-width="1" opacity="0.6"></path><path d="M460 880 V884" stroke="{{accent}}" stroke-width="1" opacity="0.6"></path><path d="M480 880 V888" stroke="{{accent}}" stroke-width="1" opacity="0.6"></path><path d="M500 880 V884" stroke="{{accent}}" stroke-width="1" opacity="0.6"></path><path d="M520 880 V884" stroke="{{accent}}" stroke-width="1" opacity="0.6"></path><path d="M540 880 V884" stroke="{{accent}}" stroke-width="1" opacity="0.6"></path><path d="M560 880 V888" stroke="{{accent}}" stroke-width="1" opacity="0.6"></path><path d="M580 880 V884" stroke="{{accent}}" stroke-width="1" opacity="0.6"></path><path d="M1000 880 V884" stroke="{{accent}}" stroke-width="1" opacity="0.6"></path><path d="M1020 880 V884" stroke="{{accent}}" stroke-width="1" opacity="0.6"></path><path d="M1040 880 V888" stroke="{{accent}}" stroke-width="1" opacity="0.6"></path><path d="M1060 880 V884" stroke="{{accent}}" stroke-width="1" opacity="0.6"></path><path d="M1080 880 V884" stroke="{{accent}}" stroke-width="1" opacity="0.6"></path><path d="M1100 880 V884" stroke="{{accent}}" stroke-width="1" opacity="0.6"></path><path d="M1120 880 V888" stroke="{{accent}}" stroke-width="1" opacity="0.6"></path><path d="M1140 880 V884" stroke="{{accent}}" stroke-width="1" opacity="0.6"></path><path d="M1160 880 V884" stroke="{{accent}}" stroke-width="1" opacity="0.6"></path><path d="M1180 880 V884" stroke="{{accent}}" stroke-width="1" opacity="0.6"></path><path d="M1200 880 V888" stroke="{{accent}}" stroke-width="1" opacity="0.6"></path><path d="M1236 876 V850 A60 60 0 0 1 1296 790 H1576 V876 Z" fill="{{panelFill}}" stroke="{{accent}}" stroke-width="1.5"></path><path d="M1400 791.5 H1576" stroke="{{accent}}" stroke-width="3"></path><path d="M24 876 H1576" stroke="{{accent}}" stroke-width="2"></path><rect x="595" y="871" width="10" height="10" fill="{{accent}}" transform="rotate(45 600 876)"></rect><rect x="995" y="871" width="10" height="10" fill="{{accent}}" transform="rotate(45 1000 876)"></rect></svg>
+<svg width="1600" height="900" viewBox="0 0 1600 900" aria-hidden="true" style="position: absolute; left: 0; top: 0; filter: drop-shadow(0 0 10px {{glow}})"><path d="M24 784 H364 A60 60 0 0 1 424 844 V876 H24 Z" fill="{{panelFill}}" stroke="{{accent}}" stroke-width="1.5"></path><path d="M150 785.5 H330" stroke="{{accent}}" stroke-width="3"></path><path d="M30 870 H200" stroke="{{accent}}" stroke-width="1" opacity="0.4"></path><path d="M440 880 V884" stroke="{{accent}}" stroke-width="1" opacity="0.6"></path><path d="M460 880 V884" stroke="{{accent}}" stroke-width="1" opacity="0.6"></path><path d="M480 880 V888" stroke="{{accent}}" stroke-width="1" opacity="0.6"></path><path d="M500 880 V884" stroke="{{accent}}" stroke-width="1" opacity="0.6"></path><path d="M520 880 V884" stroke="{{accent}}" stroke-width="1" opacity="0.6"></path><path d="M540 880 V884" stroke="{{accent}}" stroke-width="1" opacity="0.6"></path><path d="M560 880 V888" stroke="{{accent}}" stroke-width="1" opacity="0.6"></path><path d="M580 880 V884" stroke="{{accent}}" stroke-width="1" opacity="0.6"></path><path d="M1000 880 V884" stroke="{{accent}}" stroke-width="1" opacity="0.6"></path><path d="M1020 880 V884" stroke="{{accent}}" stroke-width="1" opacity="0.6"></path><path d="M1040 880 V888" stroke="{{accent}}" stroke-width="1" opacity="0.6"></path><path d="M1060 880 V884" stroke="{{accent}}" stroke-width="1" opacity="0.6"></path><path d="M1080 880 V884" stroke="{{accent}}" stroke-width="1" opacity="0.6"></path><path d="M1100 880 V884" stroke="{{accent}}" stroke-width="1" opacity="0.6"></path><path d="M1120 880 V888" stroke="{{accent}}" stroke-width="1" opacity="0.6"></path><path d="M1140 880 V884" stroke="{{accent}}" stroke-width="1" opacity="0.6"></path><path d="M1160 880 V884" stroke="{{accent}}" stroke-width="1" opacity="0.6"></path><path d="M1180 880 V884" stroke="{{accent}}" stroke-width="1" opacity="0.6"></path><path d="M1200 880 V888" stroke="{{accent}}" stroke-width="1" opacity="0.6"></path><path d="M1254 790 H1558 A18 18 0 0 1 1576 808 V858 A18 18 0 0 1 1558 876 H1254 A18 18 0 0 1 1236 858 V808 A18 18 0 0 1 1254 790 Z" fill="{{weaponFill}}" stroke="{{accent}}" stroke-width="1.5"></path><path d="M1300 791.5 H1512" stroke="{{accent}}" stroke-width="3"></path><path d="M24 876 H1576" stroke="{{accent}}" stroke-width="2"></path><rect x="595" y="871" width="10" height="10" fill="{{accent}}" transform="rotate(45 600 876)"></rect><rect x="995" y="871" width="10" height="10" fill="{{accent}}" transform="rotate(45 1000 876)"></rect></svg>
 
 <sc-if value="{{teamMode}}" hint-placeholder-val="{{ true }}">
 <div style="position: absolute; left: 36px; top: 668px; width: 276px; display: flex; flex-direction: column; gap: 6px">
@@ -181,7 +181,7 @@ a{color:#38E1FF}a:hover{color:#A6F3FF}
 <div style="position: absolute; left: 0; top: 880px; width: 1600px; text-align: center; font-family: 'Chakra Petch', sans-serif; font-size: 11px; font-weight: 600; letter-spacing: 0.14em; color: #8FD3E8">[TAB] OCULTAR</div>
 </sc-if>
 
-<div style="position: absolute; left: 1282px; top: 798px; width: 278px; display: flex; flex-direction: column; gap: 4px">
+<div style="position: absolute; left: 1256px; top: 798px; width: 300px; display: flex; flex-direction: column; gap: 4px">
 <div style="display: flex; justify-content: space-between; align-items: center; font-family: 'Chakra Petch', sans-serif">
 <span style="font-size: 14px; font-weight: 700; letter-spacing: 0.06em">RIFLE DE ASALTO</span>
 <span style="font-size: 12px; font-weight: 600; color: #8FD3E8">2 · PISTOLA</span>
@@ -220,6 +220,7 @@ class Component extends DCLogic {
       glow: accent + '99',
       edge: accent + '88',
       panelFill: 'rgba(4,24,44,' + panelAlpha + ')',
+      weaponFill: 'rgba(12,90,220,' + Math.min(1, panelAlpha * 0.75) + ')',
       teamMode,
       soloMode: !teamMode,
       skillsPanel,
